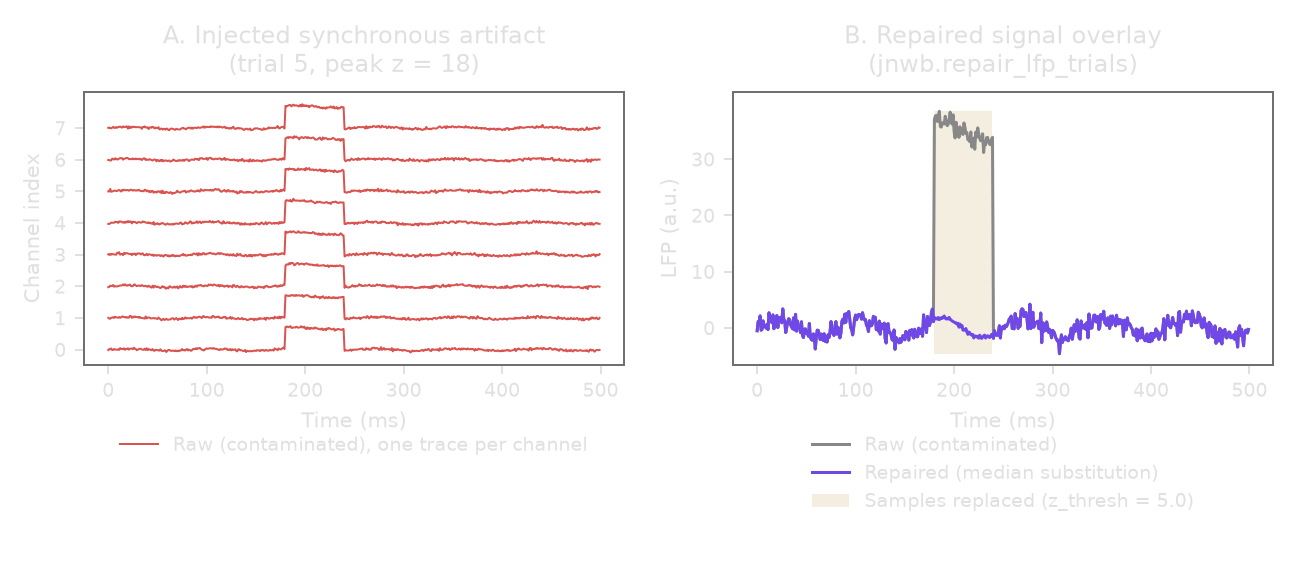
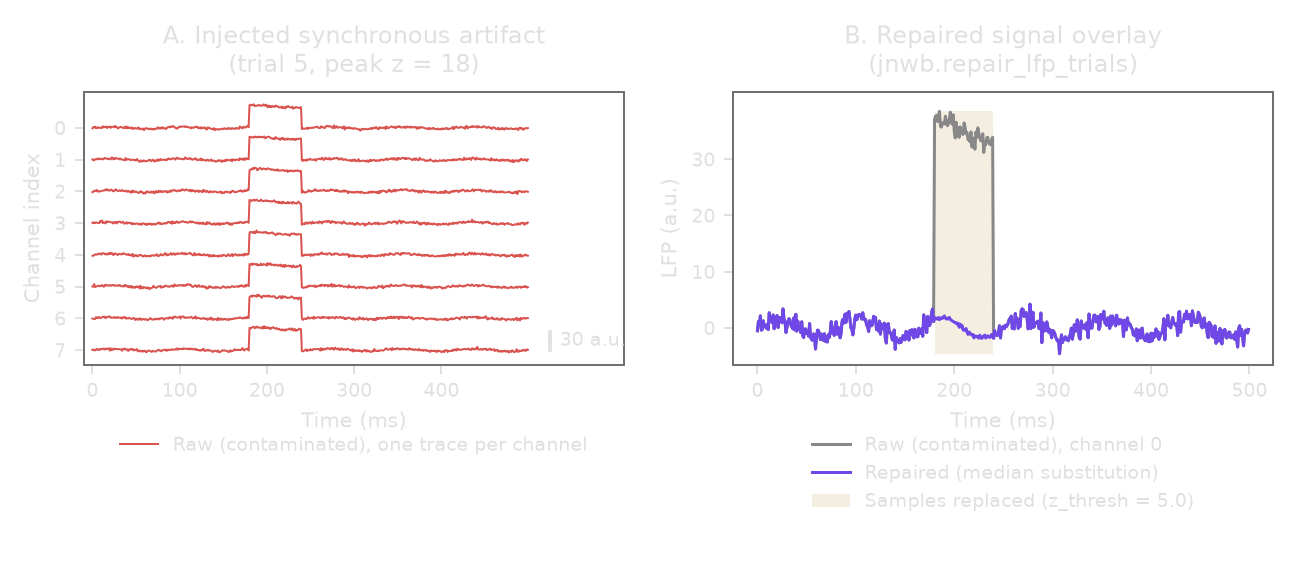
docs figures: fig10 names the channel it overlays and stacks channel 0 on top
Panel B's raw trace is channel 0 and its legend now says so. Panel A puts channel 0 on top, as
the addressing figure does, keeps each trace's polarity, and carries a 30 a.u. scale bar.

The thumbnail width rule is tested directly: a thumbnail that links to the raw PNG, to a page
without its figure, or to a missing page is judged at the gallery width, and only a link to its
own topic page counts at page width.

fig10 redrawn with Matplotlib 3.11.2.

diff --git a/tests/test_figure_form.py b/tests/test_figure_form.py
@@ -815,18 +815,26 @@ def _links_to_page_showing(href: str | None, stem: str) -> bool:
                   page.read_text(encoding="utf-8"), re.M))
 
 
+def _img_widths(text: str) -> list[tuple[str, int]]:
+    """Each light-scheme `<img>` on a page and the width it is judged at: a thumbnail in a
+    table at the gallery width, unless it links to the page that shows it at page width."""
+    out = []
+    for match in re.finditer(r'(?:<a href="([^"]+)">\s*)?<img src="(assets/[^"]+?)\.png#only-light"', text):
+        linked = _links_to_page_showing(match.group(1), match.group(2))
+        in_table = text.rfind("<table", 0, match.start()) > text.rfind("</table>", 0, match.start())
+        out.append((match.group(2), PAGE_WIDTH_PX if linked or not in_table else GALLERY_WIDTH_PX))
+    return out
+
+
 def _embeds():
     """Each light-scheme figure on a page: (page, figure file name, displayed width, caption)."""
     out = []
     for page in sorted(DOCS.rglob("*.md")):
         text = page.read_text(encoding="utf-8")
         captions = dict(figure_captions(text))
-        for match in re.finditer(r'(?:<a href="([^"]+)">\s*)?<img src="(assets/[^"]+?)\.png#only-light"', text):
-            linked = _links_to_page_showing(match.group(1), match.group(2))
-            in_table = text.rfind("<table", 0, match.start()) > text.rfind("</table>", 0, match.start())
-            width = PAGE_WIDTH_PX if linked or not in_table else GALLERY_WIDTH_PX
-            out.append((page.name, Path(match.group(2)).name + ".png", width,
-                        captions.get(f"{match.group(2)}.png#only-light", "")))
+        for stem, width in _img_widths(text):
+            out.append((page.name, Path(stem).name + ".png", width,
+                        captions.get(f"{stem}.png#only-light", "")))
         for match in re.finditer(r"^!\[[^\]]*\]\((assets/[^)\s]+?)\.png#only-light\)", text, re.M):
             out.append((page.name, Path(match.group(1)).name + ".png", PAGE_WIDTH_PX,
                         captions.get(f"{match.group(1)}.png#only-light", "")))
@@ -1372,6 +1380,18 @@ def test_the_psi_shading_check_catches_the_nominal_band_edges(drawn):
         assert _shaded_sum(wide, wide.get_lines()[0]) != pytest.approx(psi.x_to_y, abs=1e-3)
     finally:
         plt.close(fig)
+
+
+@pytest.mark.parametrize("href", [
+    "assets/figures/fig05_complex_tfr_coi.png",
+    "07_statistical_inference_and_nulls/",
+    "no_such_page/",
+], ids=["the raw PNG", "a page without the figure", "a missing page"])
+def test_a_thumbnail_is_judged_at_gallery_width_unless_it_links_to_its_page(href):
+    stem = "assets/figures/fig05_complex_tfr_coi"
+    cell = f'<table><tr><td><a href="{{}}"><img src="{stem}.png#only-light"></a></td></tr></table>'
+    assert _img_widths(cell.format("04_spectral_analysis_and_tfr/")) == [(stem, PAGE_WIDTH_PX)]
+    assert _img_widths(cell.format(href)) == [(stem, GALLERY_WIDTH_PX)]
 
 
 def test_the_psi_axis_carries_no_phase_slope_unit(drawn):

diff --git a/docs/generate_figures.py b/docs/generate_figures.py
@@ -561,6 +561,8 @@ def fig09_directed_connectivity():
 #: fig10's detection threshold and contaminated trial.
 Z_THRESH = 5.0
 HIT_TRIAL = 5
+#: Length of fig10's amplitude scale bar.
+SCALE_AU = 30.0
 
 
 def fig10_artifact_repair():
@@ -584,20 +586,29 @@ def fig10_artifact_repair():
     y_ticks = np.arange(0.0, y_hi, 10.0)
 
     # Panel A: every channel of the contaminated trial, stacked, so the artifact reads as
-    # synchronous across channels, which is what the detector scores
+    # synchronous across channels, which is what the detector scores. Channel 0 is on top, as
+    # in the addressing figure; each trace keeps its polarity (positive up).
     spacing = 1.2 * (y_hi - y_lo)
+    offsets = -np.arange(n_ch) * spacing
     for ch in range(n_ch):
-        ax1.plot(t, seg[HIT_TRIAL, ch] + ch * spacing, color=C_RED, lw=0.8,
+        ax1.plot(t, seg[HIT_TRIAL, ch] + offsets[ch], color=C_RED, lw=0.8,
                  label="Raw (contaminated), one trace per channel" if ch == 0 else None)
     ax1.set_xlabel("Time (ms)")
     ax1.set_ylabel("Channel index")
-    ax1.set_yticks(np.arange(n_ch) * spacing, [str(ch) for ch in range(n_ch)])
+    ax1.set_yticks(offsets, [str(ch) for ch in range(n_ch)])
+    # Amplitude scale: one bar of SCALE_AU rising from the last channel's baseline
+    x_bar = t[-1] + 25
+    ax1.plot([x_bar, x_bar], [offsets[-1], offsets[-1] + SCALE_AU], color=C_DARK, lw=1.5)
+    ax1.annotate(f"{SCALE_AU:.0f} a.u.", xy=(x_bar, offsets[-1] + SCALE_AU / 2), xytext=(4, 0),
+                 textcoords="offset points", va="center", fontsize=style.SMALL, color=C_DARK)
+    ax1.set_xlim(-10, t[-1] + 110)
+    ax1.set_xticks(np.arange(0, t[-1] + 1, 100))
     ax1.set_title(f"A. Injected synchronous artifact\n(trial {HIT_TRIAL}, "
                   f"peak z = {diag['synchrony_z_max']:.0f})", pad=8)
     ax1.legend(frameon=False, loc="upper center", bbox_to_anchor=(0.5, -0.2))
 
     # Panel B: the same channel before and after repair
-    ax2.plot(t, raw, color=C_GRAY, lw=1.2, label="Raw (contaminated)")
+    ax2.plot(t, raw, color=C_GRAY, lw=1.2, label="Raw (contaminated), channel 0")
     ax2.plot(t, repaired[HIT_TRIAL, 0], color=C_VIOLET, lw=1.2, label="Repaired (median substitution)")
     # The shaded samples are the detector's output: every sample the repair changed on any channel.
     replaced = np.any(repaired[HIT_TRIAL] != seg[HIT_TRIAL], axis=0)
